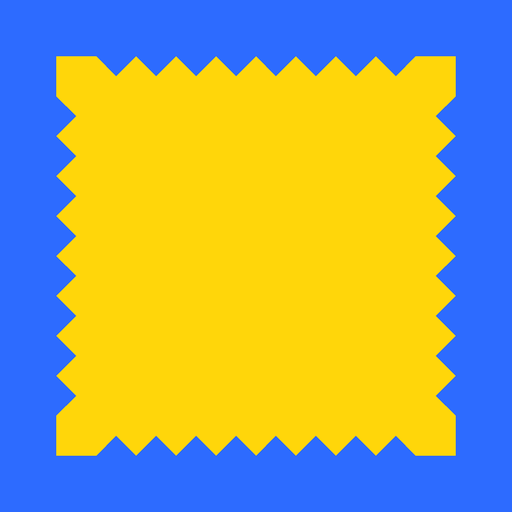
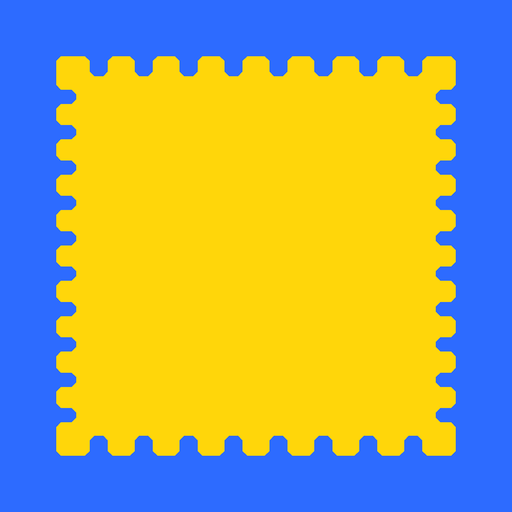
Add files via upload

diff --git a/index.html b/index.html
@@ -142,10 +142,15 @@ const MEDIA_URL='https://media.jjojjolonglong.workers.dev'; // 공용 미디어 
 <script>
 const sb=supabase.createClient(SUPABASE_URL,SUPABASE_ANON_KEY);
 const $=id=>document.getElementById(id);
-function stampPath(W=60,H=72,p=6,d=3){ // p=톱니 간격, d=톱니 깊이 (W,H는 p의 배수)
-  const E=n=>{const r=[];for(let i=1;i<n;i++){r.push([i*p,0]);if(i<n-1)r.push([i*p+p/2,d])}return r},
-    X=E(Math.round(W/p)),Y=E(Math.round(H/p)),P=[[0,0],...X,[W,0],...Y.map(([t,o])=>[W-o,t]),[W,H],...X.map(([t,o])=>[W-t,H-o]),[0,H],...Y.map(([t,o])=>[o,H-t])];
-  return 'polygon('+P.map(([x,y])=>x+'px '+y+'px').join(',')+')';
+function stampPath(W=60,H=72,k=5,d=3,mx=7,my=9,ra=1.45,rr=.7){ // k=모서리 블록, d=톱니 깊이, mx/my=가로/세로 톱니 수, ra=톱니:홈 폭 비율, rr=모서리 둥글기
+  const N=(L,m)=>{const n=(L-2*k)/((m+1)+ra*m),t=ra*n,a=[];let x=k;for(let i=0;i<=m;i++){a.push([x,x+n]);x+=n+t}return a},
+    X=N(W,mx),Y=N(H,my),P=[[0,0]];
+  X.forEach(([a,b])=>P.push([a,0],[a,d],[b,d],[b,0]));P.push([W,0]);
+  Y.forEach(([a,b])=>P.push([W,a],[W-d,a],[W-d,b],[W,b]));P.push([W,H]);
+  [...X].reverse().forEach(([a,b])=>P.push([b,H],[b,H-d],[a,H-d],[a,H]));P.push([0,H]);
+  [...Y].reverse().forEach(([a,b])=>P.push([0,b],[d,b],[d,a],[0,a]));
+  const R=P.flatMap((V,i)=>{const A=P[(i+P.length-1)%P.length],B=P[(i+1)%P.length],u=Q=>{const dx=Q[0]-V[0],dy=Q[1]-V[1],l=Math.hypot(dx,dy);return [V[0]+dx/l*rr,V[1]+dy/l*rr]};return [u(A),u(B)]});
+  return 'polygon('+R.map(([x,y])=>x.toFixed(2)+'px '+y.toFixed(2)+'px').join(',')+')';
 }
 document.documentElement.style.setProperty('--stamp',stampPath());
 const PALETTE=['#FFD60A','#FF4D8D','#2D6BFF','#19C37D','#FF7A1A','#8B5CF6','#00C2E0'];

diff --git a/sw.js b/sw.js
@@ -1,4 +1,4 @@
-const V='didi-v3';
+const V='didi-v5';
 const SHELL=['./','index.html','manifest.webmanifest','icons/icon-192.png','icons/icon-512.png'];
 self.addEventListener('install',e=>{e.waitUntil(caches.open(V).then(c=>c.addAll(SHELL)).then(()=>self.skipWaiting()))});
 self.addEventListener('activate',e=>{e.waitUntil(caches.keys().then(k=>Promise.all(k.filter(x=>x!==V).map(x=>caches.delete(x)))).then(()=>self.clients.claim()))});
